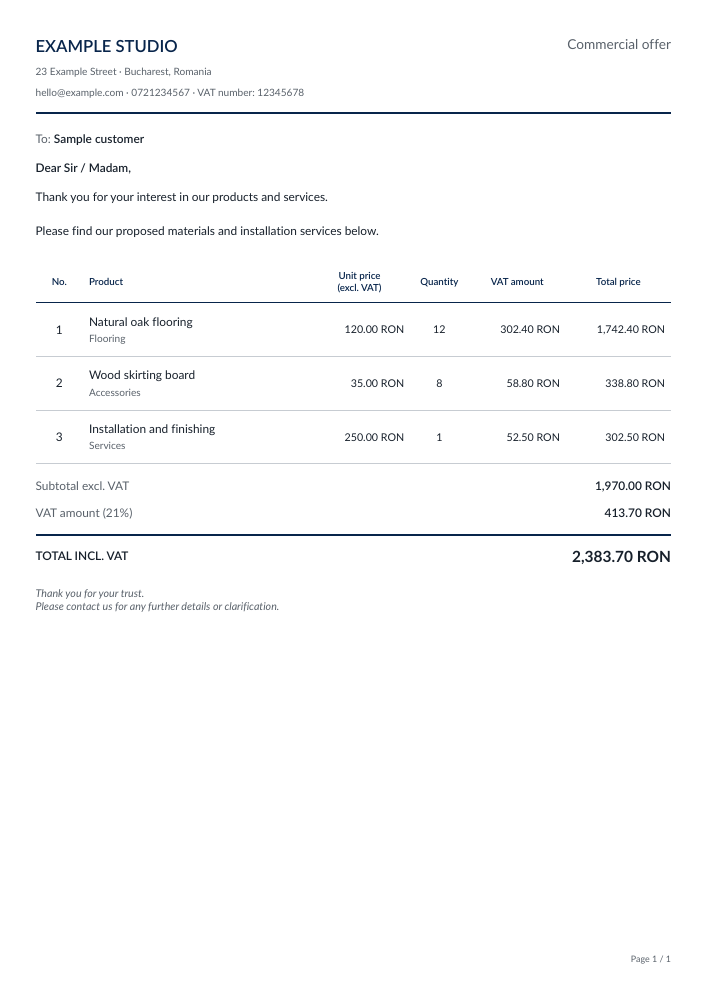
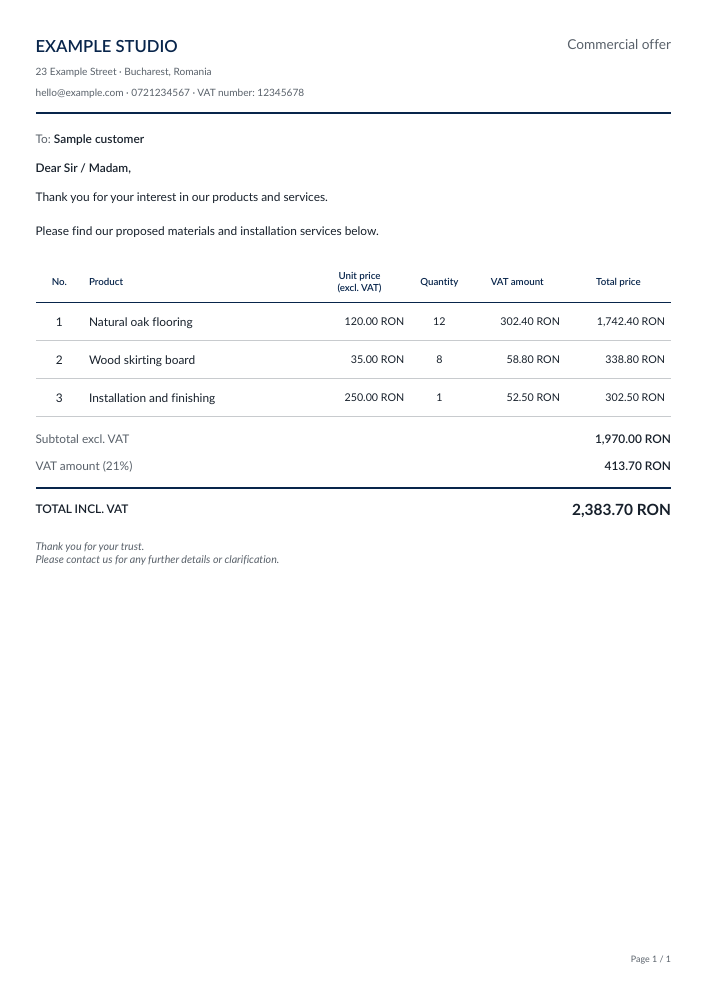
pdf naming changed

diff --git a/EvoOffer/EvoOffer/MainPage.xaml b/EvoOffer/EvoOffer/MainPage.xaml
@@ -83,20 +83,19 @@
                             <AbsoluteLayout>
                             <ScrollView x:Name="TableViewport" Orientation="Horizontal" AbsoluteLayout.LayoutBounds="0,0,1,1" AbsoluteLayout.LayoutFlags="All"
                                         HorizontalScrollBarVisibility="Always" VerticalScrollBarVisibility="Never">
-                                <Grid x:Name="TableContent" RowDefinitions="64,*" WidthRequest="1620">
-                                    <Grid ColumnDefinitions="56,1.2*,1.45*,270,180,190,130,130,180,96" ColumnSpacing="1" BackgroundColor="#E0E7EF">
-                                        <BoxView Grid.ColumnSpan="10" Color="#EEF2F7" />
+                                <Grid x:Name="TableContent" RowDefinitions="64,*" WidthRequest="1520">
+                                    <Grid ColumnDefinitions="56,*,270,180,190,130,130,180,96" ColumnSpacing="1" BackgroundColor="#E0E7EF">
+                                        <BoxView Grid.ColumnSpan="9" Color="#EEF2F7" />
                                         <Label Text="#" Style="{StaticResource TableHeaderStyle}" />
-                                        <Label Grid.Column="1" Text="{DynamicResource Category}" Style="{StaticResource TableHeaderStyle}" />
-                                        <Label Grid.Column="2" Text="{DynamicResource Item}" Style="{StaticResource TableHeaderStyle}" />
-                                        <Label Grid.Column="3" Text="{DynamicResource Size}" Style="{StaticResource TableHeaderStyle}" />
-                                        <Label Grid.Column="4" Text="{DynamicResource Color}" Style="{StaticResource TableHeaderStyle}" />
-                                        <Label Grid.Column="5" Text="{DynamicResource UnitPriceHeader}" Style="{StaticResource TableHeaderStyle}" LineBreakMode="WordWrap" HorizontalTextAlignment="Center" />
-                                        <Label Grid.Column="6" Text="{DynamicResource Quantity}" Style="{StaticResource TableHeaderStyle}" HorizontalTextAlignment="Center" />
-                                        <Label Grid.Column="7" Text="{Binding VatHeaderText}" Style="{StaticResource TableHeaderStyle}" LineBreakMode="WordWrap" HorizontalTextAlignment="Center" />
-                                        <Label Grid.Column="8" Text="{DynamicResource TotalHeader}" Style="{StaticResource TableHeaderStyle}" LineBreakMode="WordWrap" HorizontalTextAlignment="Center" />
-                                        <Label Grid.Column="9" Text="{DynamicResource Actions}" Style="{StaticResource TableHeaderStyle}" HorizontalTextAlignment="Center" Padding="8,0" />
-                                        <BoxView Grid.ColumnSpan="10" Color="#DEE6EF" HeightRequest="1" VerticalOptions="End" />
+                                        <Label Grid.Column="1" Text="{DynamicResource Item}" Style="{StaticResource TableHeaderStyle}" />
+                                        <Label Grid.Column="2" Text="{DynamicResource Size}" Style="{StaticResource TableHeaderStyle}" />
+                                        <Label Grid.Column="3" Text="{DynamicResource Color}" Style="{StaticResource TableHeaderStyle}" />
+                                        <Label Grid.Column="4" Text="{DynamicResource UnitPriceHeader}" Style="{StaticResource TableHeaderStyle}" LineBreakMode="WordWrap" HorizontalTextAlignment="Center" />
+                                        <Label Grid.Column="5" Text="{DynamicResource Quantity}" Style="{StaticResource TableHeaderStyle}" HorizontalTextAlignment="Center" />
+                                        <Label Grid.Column="6" Text="{Binding VatHeaderText}" Style="{StaticResource TableHeaderStyle}" LineBreakMode="WordWrap" HorizontalTextAlignment="Center" />
+                                        <Label Grid.Column="7" Text="{DynamicResource TotalHeader}" Style="{StaticResource TableHeaderStyle}" LineBreakMode="WordWrap" HorizontalTextAlignment="Center" />
+                                        <Label Grid.Column="8" Text="{DynamicResource Actions}" Style="{StaticResource TableHeaderStyle}" HorizontalTextAlignment="Center" Padding="8,0" />
+                                        <BoxView Grid.ColumnSpan="9" Color="#DEE6EF" HeightRequest="1" VerticalOptions="End" />
                                     </Grid>
                                     <CollectionView x:Name="ItemsTable" Grid.Row="1" ItemsSource="{Binding Items}"
                                                     SelectionMode="None" ItemSizingStrategy="MeasureFirstItem"
@@ -113,29 +112,27 @@
                                         </CollectionView.EmptyView>
                                         <CollectionView.ItemTemplate>
                                             <DataTemplate x:DataType="models:OfferLineItem">
-                                                <Grid ColumnDefinitions="56,1.2*,1.45*,270,180,190,130,130,180,96" HeightRequest="56" ColumnSpacing="1">
+                                                <Grid ColumnDefinitions="56,*,270,180,190,130,130,180,96" HeightRequest="56" ColumnSpacing="1">
                                                     <Label Text="{Binding Number}" Style="{StaticResource TableCellStyle}" Padding="8,0" />
-                                                    <Label Grid.Column="1" Text="{Binding Category}" Style="{StaticResource TableCellStyle}"
-                                                           ToolTipProperties.Text="{Binding Category}" />
-                                                    <Label Grid.Column="2" Text="{Binding Name}" Style="{StaticResource TableCellStyle}"
+                                                    <Label Grid.Column="1" Text="{Binding Name}" Style="{StaticResource TableCellStyle}"
                                                            ToolTipProperties.Text="{Binding Name}" />
-                                                    <Border Grid.Column="3" Style="{StaticResource InputBorderStyle}" Margin="8,7" HeightRequest="40">
+                                                    <Border Grid.Column="2" Style="{StaticResource InputBorderStyle}" Margin="8,7" HeightRequest="40">
                                                         <controls:DropdownPicker Title="{DynamicResource SelectSize}" ItemsSource="{Binding AvailableSizes}"
                                                                 SelectedItem="{Binding SelectedSize, Mode=TwoWay}" IsEnabled="{Binding HasSizeOptions}"
                                                                 FontSize="15" Margin="8,0" SemanticProperties.Description="{DynamicResource ProductSize}"
                                                                 ToolTipProperties.Text="{Binding SelectedSize}" />
                                                     </Border>
-                                                    <Border Grid.Column="4" Style="{StaticResource InputBorderStyle}" Margin="8,7" HeightRequest="40">
+                                                    <Border Grid.Column="3" Style="{StaticResource InputBorderStyle}" Margin="8,7" HeightRequest="40">
                                                         <controls:DropdownPicker Title="{DynamicResource SelectColor}" ItemsSource="{Binding AvailableColors}"
                                                                 SelectedItem="{Binding SelectedColor, Mode=TwoWay}" IsEnabled="{Binding HasColorOptions}"
                                                                 FontSize="15" Margin="8,0" SemanticProperties.Description="{DynamicResource ProductColor}" />
                                                     </Border>
-                                                    <Label Grid.Column="5" Text="{Binding UnitPriceText}" Style="{StaticResource TableCellStyle}" HorizontalTextAlignment="End" />
-                                                    <controls:QuantityInput Grid.Column="6" Text="{Binding QuantityText}" HasError="{Binding HasQuantityError}"
+                                                    <Label Grid.Column="4" Text="{Binding UnitPriceText}" Style="{StaticResource TableCellStyle}" HorizontalTextAlignment="End" />
+                                                    <controls:QuantityInput Grid.Column="5" Text="{Binding QuantityText}" HasError="{Binding HasQuantityError}"
                                                                             Margin="16,7" HeightRequest="40" />
-                                                    <Label Grid.Column="7" Text="{Binding VatAmountText}" Style="{StaticResource TableCellStyle}" HorizontalTextAlignment="End" />
-                                                    <Label Grid.Column="8" Text="{Binding TotalText}" Style="{StaticResource TableCellStyle}" HorizontalTextAlignment="End" />
-                                                    <ImageButton Grid.Column="9" Source="trash.png" BackgroundColor="Transparent" WidthRequest="44" HeightRequest="44"
+                                                    <Label Grid.Column="6" Text="{Binding VatAmountText}" Style="{StaticResource TableCellStyle}" HorizontalTextAlignment="End" />
+                                                    <Label Grid.Column="7" Text="{Binding TotalText}" Style="{StaticResource TableCellStyle}" HorizontalTextAlignment="End" />
+                                                    <ImageButton Grid.Column="8" Source="trash.png" BackgroundColor="Transparent" WidthRequest="44" HeightRequest="44"
                                                                  HorizontalOptions="Center" VerticalOptions="Center" Padding="12" CornerRadius="5"
                                                                  Clicked="OnDeleteItemClicked" ToolTipProperties.Text="{DynamicResource RemoveItem}"
                                                                  SemanticProperties.Description="{Binding RemoveDescription}" />
@@ -147,8 +144,7 @@
                                                     <BoxView Grid.Column="6" Color="#E7ECF2" WidthRequest="1" HorizontalOptions="Start" />
                                                     <BoxView Grid.Column="7" Color="#E7ECF2" WidthRequest="1" HorizontalOptions="Start" />
                                                     <BoxView Grid.Column="8" Color="#E7ECF2" WidthRequest="1" HorizontalOptions="Start" />
-                                                    <BoxView Grid.Column="9" Color="#E7ECF2" WidthRequest="1" HorizontalOptions="Start" />
-                                                    <BoxView Grid.ColumnSpan="10" Color="#E4EAF1" HeightRequest="1" VerticalOptions="End" />
+                                                    <BoxView Grid.ColumnSpan="9" Color="#E4EAF1" HeightRequest="1" VerticalOptions="End" />
                                                 </Grid>
                                             </DataTemplate>
                                         </CollectionView.ItemTemplate>

diff --git a/EvoOffer/EvoOffer.Tests/OfferPdfWrappingTests.cs b/EvoOffer/EvoOffer.Tests/OfferPdfWrappingTests.cs
@@ -8,6 +8,8 @@ using QuestPDF.Fluent;
 internal static class OfferPdfWrappingTests
 {
     private const string Category = "Categorie verificată";
+    private const string Size = "600 x 90 mm";
+    private const string Color = "Natur";
     private const string FollowingItem = "Următorul produs";
 
     public static void Run(Action<bool, string> check)
@@ -18,39 +20,42 @@ internal static class OfferPdfWrappingTests
             + "împotriva umidității, potrivit pentru proiecte de renovare și amenajare interioară";
         var wrapped = Render(longName);
         var wrappedLines = NameLines(wrapped);
-        var wrappedCategory = wrapped.Single(text => text.Value == Category);
+        var wrappedSize = wrapped.Single(text => text.Value == Size);
+        var wrappedColor = wrapped.Single(text => text.Value == Color);
         var wrappedFollowing = wrapped.Single(text => text.Value == FollowingItem);
 
         check(wrappedLines.Length > 1 && wrappedLines.Select(text => (text.Page, text.Y)).Distinct().Count() > 1
             && string.Join(' ', wrappedLines.Select(text => text.Value)) == longName,
             "Long Romanian product names wrap onto distinct lines without truncating any text");
-        check(wrappedCategory.Y > baseline.Single(text => text.Value == Category).Y
+        check(wrappedSize.Y > baseline.Single(text => text.Value == Size).Y
             && wrappedFollowing.Y > baseline.Single(text => text.Value == FollowingItem).Y
-            && wrappedCategory.Page == 0 && wrappedFollowing.Page == 0
-            && IsAfter(wrappedCategory, wrappedLines[^1]) && IsAfter(wrappedFollowing, wrappedCategory),
-            "Wrapping a product name expands its row and moves its category and the following item down without overlap");
+            && wrappedSize.Page == 0 && wrappedFollowing.Page == 0
+            && IsAfter(wrappedSize, wrappedLines[^1]) && IsAfter(wrappedColor, wrappedSize)
+            && IsAfter(wrappedFollowing, wrappedColor),
+            "Wrapping a product name expands its row and moves its size, color and the following item down without overlap");
 
         var identifier = string.Concat(Enumerable.Repeat("PRODUS1234567890", 24));
         var identifierLayout = Render(identifier);
         var identifierLines = NameLines(identifierLayout);
         check(identifierLines.Length > 1
             && string.Concat(identifierLines.Select(text => text.Value)) == identifier
-            && IsAfter(identifierLayout.Single(text => text.Value == Category), identifierLines[^1]),
-            "Unbroken product identifiers wrap across lines and preserve every character before the category");
+            && IsAfter(identifierLayout.Single(text => text.Value == Size), identifierLines[^1]),
+            "Unbroken product identifiers wrap across lines and preserve every character before the size");
 
         var spanningName = string.Join(' ', Enumerable.Repeat(
             "Sistem profesional pentru instalare și întreținere cu documentație tehnică completă", 100));
         var spanning = Render(spanningName);
         var spanningLines = NameLines(spanning);
-        var spanningCategory = spanning.Single(text => text.Value == Category);
+        var spanningSize = spanning.Single(text => text.Value == Size);
+        var spanningColor = spanning.Single(text => text.Value == Color);
         var spanningFollowing = spanning.Single(text => text.Value == FollowingItem);
         var total = spanning.Single(text => text.Value == "TOTAL CU T.V.A.");
         check(spanningLines.Select(text => text.Page).Distinct().Count() > 1
             && string.Join(' ', spanningLines.Select(text => text.Value)) == spanningName,
             "An exceptionally long product name continues across pages without losing or duplicating text");
-        check(IsAfter(spanningCategory, spanningLines[^1])
-            && IsAfter(spanningFollowing, spanningCategory) && IsAfter(total, spanningFollowing),
-            "The category, next product and offer total appear after the complete name when a row spans pages");
+        check(IsAfter(spanningSize, spanningLines[^1]) && IsAfter(spanningColor, spanningSize)
+            && IsAfter(spanningFollowing, spanningColor) && IsAfter(total, spanningFollowing),
+            "The size, color, next product and offer total appear after the complete name when a row spans pages");
     }
 
     private static RenderedText[] Render(string name)
@@ -58,7 +63,8 @@ internal static class OfferPdfWrappingTests
         var offer = new OfferPdfData("Client verificare", null,
             new[]
             {
-                new OfferLineItem(1, new CatalogItem(Category, name, 123m), 2m, 21m),
+                new OfferLineItem(1, new CatalogItem(name,
+                    new[] { new CatalogVariant(Size, Color, 123m, 148.83m) }, new[] { Category }), 2m, 21m),
                 new OfferLineItem(2, new CatalogItem(string.Empty, FollowingItem, 45m), 1m, 21m)
             }, new AppSettings { IssuerName = "Verificare ofertă", Language = AppSettings.Romanian });
         var options = new OfferPdfOptions { FooterText = string.Empty, ShowPageNumbers = false };

diff --git a/EvoOffer/EvoOffer/Services/OfferPdfPreviewFile.cs b/EvoOffer/EvoOffer/Services/OfferPdfPreviewFile.cs
@@ -1,3 +1,4 @@
+using System.Globalization;
 using EvoOffer.Models;
 
 namespace EvoOffer.Services;
@@ -20,8 +21,12 @@ public sealed class OfferPdfPreviewFile : IDisposable
             throw new PlatformNotSupportedException(
                 "QuestPDF does not support iOS, Android or Mac Catalyst. Generate PDFs on Windows or in a desktop/server .NET host.");
 
-        var previewDirectory = Path.Combine(cacheDirectory, "offer-previews");
-        var filePath = Path.Combine(previewDirectory, $"offer-{Guid.NewGuid():N}.pdf");
+        // Each preview has its own directory so identical client names and timestamps are safe.
+        var previewDirectory = Path.Combine(cacheDirectory, "offer-previews", Guid.NewGuid().ToString("N"));
+        var clientName = string.Concat(offer.ClientName.Select(character =>
+            char.IsControl(character) || "<>:\"/\\|?*".Contains(character) ? '_' : character));
+        var generatedAt = DateTime.Now.ToString("yyyy-MM-dd_HH-mm-ss", CultureInfo.InvariantCulture);
+        var filePath = Path.Combine(previewDirectory, $"{clientName}-{generatedAt}.pdf");
         OfferPdfPreviewFile? preview = null;
         try
         {
@@ -29,8 +34,8 @@ public sealed class OfferPdfPreviewFile : IDisposable
             {
                 cancellationToken.ThrowIfCancellationRequested();
                 Directory.CreateDirectory(previewDirectory);
-                using var output = new FileStream(filePath, FileMode.CreateNew, FileAccess.Write, FileShare.None);
                 preview = new OfferPdfPreviewFile(filePath);
+                using var output = new FileStream(filePath, FileMode.CreateNew, FileAccess.Write, FileShare.None);
                 pdfService.Generate(offer, output);
                 cancellationToken.ThrowIfCancellationRequested();
             }, cancellationToken).ConfigureAwait(false);
@@ -52,9 +57,9 @@ public sealed class OfferPdfPreviewFile : IDisposable
         cancellationToken.ThrowIfCancellationRequested();
 
         var directory = Path.GetFullPath(saveDirectory);
-        var fileName = $"offer-{Guid.NewGuid():N}";
+        var fileName = Path.GetFileNameWithoutExtension(FilePath);
         var savedPath = Path.Combine(directory, $"{fileName}.pdf");
-        var stagingPath = Path.Combine(directory, $".{fileName}.tmp");
+        var stagingPath = Path.Combine(directory, $".offer-{Guid.NewGuid():N}.tmp");
         var stagingCreated = false;
         try
         {
@@ -69,10 +74,20 @@ public sealed class OfferPdfPreviewFile : IDisposable
                 await destination.FlushAsync(cancellationToken).ConfigureAwait(false);
             }
 
-            cancellationToken.ThrowIfCancellationRequested();
             // Publish only the completed PDF. Never replace an existing offer.
-            File.Move(stagingPath, savedPath);
-            return savedPath;
+            for (var copyNumber = 2; ; copyNumber++)
+            {
+                cancellationToken.ThrowIfCancellationRequested();
+                try
+                {
+                    File.Move(stagingPath, savedPath);
+                    return savedPath;
+                }
+                catch (IOException) when (File.Exists(savedPath) || Directory.Exists(savedPath))
+                {
+                    savedPath = Path.Combine(directory, $"{fileName} ({copyNumber}).pdf");
+                }
+            }
         }
         catch
         {
@@ -90,7 +105,11 @@ public sealed class OfferPdfPreviewFile : IDisposable
 
     public void Dispose()
     {
-        try { File.Delete(FilePath); }
+        try
+        {
+            File.Delete(FilePath);
+            Directory.Delete(Path.GetDirectoryName(FilePath)!);
+        }
         catch (Exception ex) when (ex is IOException or UnauthorizedAccessException)
         {
             // A native viewer can briefly keep the cached PDF locked after closing.

diff --git a/EvoOffer/EvoOffer.Tests/Program.cs b/EvoOffer/EvoOffer.Tests/Program.cs
@@ -571,7 +571,14 @@ try
             "Canceling during synchronous PDF rendering waits for the writer and removes its file");
     }
 
+    var generationStarted = DateTime.Now.AddSeconds(-1);
     using var firstPreview = await OfferPdfPreviewFile.CreateAsync(pdfService, pdfOffer, previewCacheDirectory);
+    var firstPreviewName = Path.GetFileNameWithoutExtension(firstPreview.FilePath);
+    Check(firstPreviewName.StartsWith(pdfOffer.ClientName + "-", StringComparison.Ordinal)
+        && DateTime.TryParseExact(firstPreviewName[(pdfOffer.ClientName.Length + 1)..],
+            "yyyy-MM-dd_HH-mm-ss", CultureInfo.InvariantCulture, DateTimeStyles.None, out var generatedAt)
+        && generatedAt >= generationStarted && generatedAt <= DateTime.Now,
+        "Offer filenames preserve the client name and include the local generation date and time");
     using var secondPreview = await OfferPdfPreviewFile.CreateAsync(pdfService, longOffer, previewCacheDirectory);
     var firstPreviewText = Encoding.Latin1.GetString(await File.ReadAllBytesAsync(firstPreview.FilePath));
     var secondPreviewText = Encoding.Latin1.GetString(await File.ReadAllBytesAsync(secondPreview.FilePath));
@@ -601,6 +608,9 @@ try
         Path.GetDirectoryName(path) == savedPdfDirectory && Path.GetExtension(path) == ".pdf")
         && Directory.EnumerateFiles(savedPdfDirectory).Count() == 2,
         "Simultaneous PDF saves create distinct completed files in the selected directory");
+    Check(savedPaths.Select(Path.GetFileName).ToHashSet().SetEquals(new[]
+        { firstPreviewName + ".pdf", firstPreviewName + " (2).pdf" }),
+        "Saved PDFs retain the generation filename and add a number only on a name collision");
     foreach (var savedPath in savedPaths)
         Check(Encoding.Latin1.GetString(await File.ReadAllBytesAsync(savedPath)) == firstPreviewText,
             "A saved PDF contains the complete preview without overwriting an earlier save");
@@ -615,6 +625,19 @@ try
         "A failed PDF save preserves an existing destination file and leaves no partial output");
     File.Delete(blockedDirectory);
 
+    var unsafeClientOffer = new OfferPdfData("Client român / \\ : * ? \" < > |\t", null,
+        new[] { line }, new AppSettings());
+    using (var safePreview = await OfferPdfPreviewFile.CreateAsync(new PreviewPdfServiceStub(),
+        unsafeClientOffer, previewCacheDirectory))
+    {
+        var safePath = await safePreview.SaveCopyAsync(savedPdfDirectory);
+        Check(Path.GetDirectoryName(safePath) == savedPdfDirectory
+            && Path.GetFileName(safePath).StartsWith("Client român _ _ _ _ _ _ _ _ _-", StringComparison.Ordinal)
+            && File.Exists(safePath),
+            "Invalid characters in client names are replaced without losing spaces or Romanian characters");
+        File.Delete(safePath);
+    }
+
     firstPreview.Dispose();
     firstPreview.Dispose();
     Check(!File.Exists(firstPreview.FilePath) && File.Exists(secondPreview.FilePath),
@@ -623,6 +646,7 @@ try
     var unavailablePreviewReported = false;
     try { await firstPreview.SaveCopyAsync(failedSaveDirectory); }
     catch (FileNotFoundException) { unavailablePreviewReported = true; }
+    catch (DirectoryNotFoundException) { unavailablePreviewReported = true; }
     Check(unavailablePreviewReported && (!Directory.Exists(failedSaveDirectory)
         || !Directory.EnumerateFiles(failedSaveDirectory).Any()),
         "Saving an unavailable preview reports the error and cleans up its partial output");

diff --git a/EvoOffer/EvoOffer.Tests/LocalizationTests.cs b/EvoOffer/EvoOffer.Tests/LocalizationTests.cs
@@ -46,7 +46,7 @@ public static class LocalizationTests
             check(vm.Status == "S-a adăugat Produs românesc."
                 && vm.DefaultMessage.StartsWith("Vă mulțumim", StringComparison.Ordinal)
                 && vm.CustomText == vm.DefaultMessage
-                && vm.VatHeaderText == "TVA 19,5%\n(RON)"
+                && vm.VatHeaderText.ReplaceLineEndings("\n") == "TVA 19,5%\n(RON)"
                 && vm.GrandTotalSummary == "Total cu TVA: 1.851,75 RON"
                 && vm.NewQuantityText == "1,5" && line.QuantityText == "1,5",
                 "Romanian offers localize status, default message, headers, totals and fractional quantities");
@@ -58,7 +58,7 @@ public static class LocalizationTests
             LocalizationService.SetLanguage(AppSettings.English);
             vm.RefreshLocalization();
             check(languageChanges == 1 && vm.Status == "Added Produs românesc."
-                && vm.VatHeaderText == "VAT 19.5%\n(RON)"
+                && vm.VatHeaderText.ReplaceLineEndings("\n") == "VAT 19.5%\n(RON)"
                 && vm.GrandTotalSummary == "Total incl. VAT: 1,851.75 RON"
                 && vm.NewQuantityText == "1.5" && line.QuantityText == "1.5"
                 && vm.CustomText.StartsWith("Thank you", StringComparison.Ordinal)

diff --git a/EvoOffer/EvoOffer.Tests/OfferPdfTemplateTests.cs b/EvoOffer/EvoOffer.Tests/OfferPdfTemplateTests.cs
@@ -193,8 +193,9 @@ public static class OfferPdfTemplateTests
             "600 x 90 mm", "Natural", offer.Subtotal.ToString("N2", culture) + " RON",
             offer.VatTotal.ToString("N2", culture) + " RON", offer.GrandTotal.ToString("N2", culture) + " RON"
         };
-        check(expected.All(value => text.Contains(value, StringComparison.Ordinal)),
-            $"The {offer.PdfTemplateId} template retains company, client, message, variants and calculated totals in {offer.Language}");
+        check(expected.All(value => text.Contains(value, StringComparison.Ordinal))
+            && offer.Items.All(item => !text.Contains(item.Category, StringComparison.Ordinal)),
+            $"The {offer.PdfTemplateId} template retains company, client, message, names, sizes, colors and calculated totals without product categories in {offer.Language}");
         check(text.Contains(offer.IssuerName, StringComparison.Ordinal) != OfferPdfTemplates.HidesIssuerName(offer.PdfTemplateId),
             $"The {offer.PdfTemplateId} template respects issuer-name visibility in {offer.Language}");
     }

diff --git a/EvoOffer/EvoOffer/MainPage.xaml.cs b/EvoOffer/EvoOffer/MainPage.xaml.cs
@@ -11,7 +11,7 @@ public partial class MainPage : ContentPage
 {
     private const string DefaultMessagePreference = "offer_default_message";
     private const string VatRatePreference = "offer_vat_percentage";
-    private const double MinimumTableWidth = 1620;
+    private const double MinimumTableWidth = 1520;
     private readonly MainViewModel _viewModel;
     private readonly IOfferPdfService _pdfService;
     private readonly SettingsStore _settingsStore = new(FileSystem.Current.AppDataDirectory);

diff --git a/EvoOffer/EvoOffer/Services/OfferPdfTemplate.cs b/EvoOffer/EvoOffer/Services/OfferPdfTemplate.cs
@@ -413,8 +413,6 @@ internal sealed class OfferPdfTemplate(OfferPdfData offer, OfferPdfOptions optio
                     text.Span(value);
                 });
             }
-            if (!string.IsNullOrWhiteSpace(item.Category))
-                product.Item().Text(item.Category).FontSize(options.FontSize * 0.85f).FontColor(Muted);
         });
     }
 

diff --git a/EvoOffer/README.md b/EvoOffer/README.md
@@ -337,15 +337,17 @@ or writes to a caller-owned stream without closing it.
 
 On Windows, **Generate Offer** validates the offer, snapshots its items and saved
 issuer/contact details and optional logo path, and generates the PDF in the background.
-It saves a uniquely named PDF in the configured save directory, then opens
-that actual document in an in-app PDF preview, replacing the former hand-built
+It saves a PDF named `{ClientName}-{yyyy-MM-dd_HH-mm-ss}.pdf` in the configured
+save directory, using the local generation time and replacing invalid filename
+characters with underscores. If the name already exists, it adds ` (2)`, ` (3)`,
+and so on. It then opens that actual document in an in-app PDF preview, replacing the former hand-built
 table preview. The viewer provides page navigation, zoom, save, and print controls.
 Generation errors keep the offer editable and display a message; viewer loading
 errors provide a retry action. **Close preview** returns to the editor.
 
-`OfferPdfPreviewFile` owns a uniquely named PDF in the app's cache directory under
-`offer-previews`. It removes partial output after generation errors or
-cancellation and attempts to delete the completed PDF when its viewer closes.
+`OfferPdfPreviewFile` owns a PDF with the same client-and-time filename in a unique
+cache subdirectory under `offer-previews`. It removes partial output after
+generation errors or cancellation and attempts to delete the completed PDF when its viewer closes.
 The permanent copy in the save directory remains available after closing the
 preview or app. Saving uses a temporary file followed by a rename, so unfinished
 copies are cleaned up and existing offers are never overwritten. Missing logo
@@ -395,7 +397,8 @@ other font with QuestPDF's `FontManager` before using it. `OfferPdfTemplate.cs`
 contains all three reusable layouts. Classic keeps the original A4 letterhead design: an optional logo to the left of the
 issuer name, contact details with vector icons and vertical separators, an
 underlined recipient, a greeting and custom message, and a six-column product
-table. Selected sizes, colors, and product categories appear under their names. The navy table heading and
+table. Product details show the name, selected size, and color in the offer table
+and all PDF templates. The navy table heading and
 grand-total bar follow the reference design, with thin rules between items and
 full-width subtotal and VAT rows.
 
